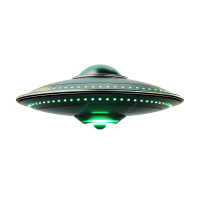
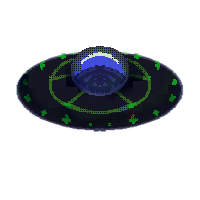
replaced the sprites and title screen for fun

Changed region(s): [[0.06, 0.21, 0.93, 0.66]]

diff --git a/Topics/Variations_jam/js/script.js b/Topics/Variations_jam/js/script.js
@@ -60,7 +60,7 @@ let state = "title"
 let healthBar = {
     x: 400,
     y: 10,
-    HealthlvlWidth: 300,
+    healthlvlWidth: 300,
     maxWidth: 300,
     h: 30,
     color: "#ff1b1b"
@@ -237,11 +237,11 @@ function title() {
     image(titleScreenIMG, width / 2, height / 2);
     pop();
 
-    drawTitleBoxes(titleBoxPlay);
+    // drawTitleBoxes(titleBoxPlay);
 
-    drawTitleBoxes(titleBoxStory);
+    // drawTitleBoxes(titleBoxStory);
 
-    drawTitleBoxes(titleBoxDefender);
+    // drawTitleBoxes(titleBoxDefender);
 
     gamePick(titleBoxPlay);
     gamePick(titleBoxDefender);
@@ -264,13 +264,13 @@ function gamePick(titleBox) {
 
 //functions for the title Screen
 
-function drawTitleBoxes(titleBox) {
-    push();
-    noStroke();
-    fill(titleBox.fill);
-    rect(titleBox.x, titleBox.y, titleBox.w, titleBox.h);
-    pop();
-}
+// function drawTitleBoxes(titleBox) {
+//     push();
+//     noStroke();
+//     fill(titleBox.fill);
+//     rect(titleBox.x, titleBox.y, titleBox.w, titleBox.h);
+//     pop();
+// }
 
 //The main game mode
 function playGame() {
@@ -364,8 +364,6 @@ function defenderMode() {
 }
 
 
-
-
 // moves the player ship
 function movePlayer() {
     if (keyIsDown(LEFT_ARROW)) {
@@ -455,8 +453,8 @@ function checkPlayerEnemyOverlap() {
         const playerHit = (playerD < enemyShip.body.size / 2 + playerShip.body.size / 2);
         if (playerHit) {
             // increase the score
-            healthBar.HealthlvlWidth -= 10;
-            healthBar.HealthlvlWidth = constrain(healthBar.HealthlvlWidth, 0, healthBar.HealthlvlWidth);
+            healthBar.healthlvlWidth -= 10;
+            healthBar.healthlvlWidth = constrain(healthBar.healthlvlWidth, 0, healthBar.healthlvlWidth);
             const index = enemyShips.indexOf(enemyShip);
             enemyShips.splice(index, 1);
         }
@@ -479,6 +477,7 @@ function drawSpriteElements(spriteObject) {
     pop();
 }
 
+//draws the UFOa
 function drawEnemyShip(enemyShip) {
     push();
     fill(enemyShip.body.fill)
@@ -502,7 +501,7 @@ function drawHealthBar() {
     push();
     noStroke();
     fill(healthBar.color);
-    rect(healthBar.x, healthBar.y, healthBar.HealthlvlWidth, healthBar.h);
+    rect(healthBar.x, healthBar.y, healthBar.healthlvlWidth, healthBar.h);
     pop();
 
 }
